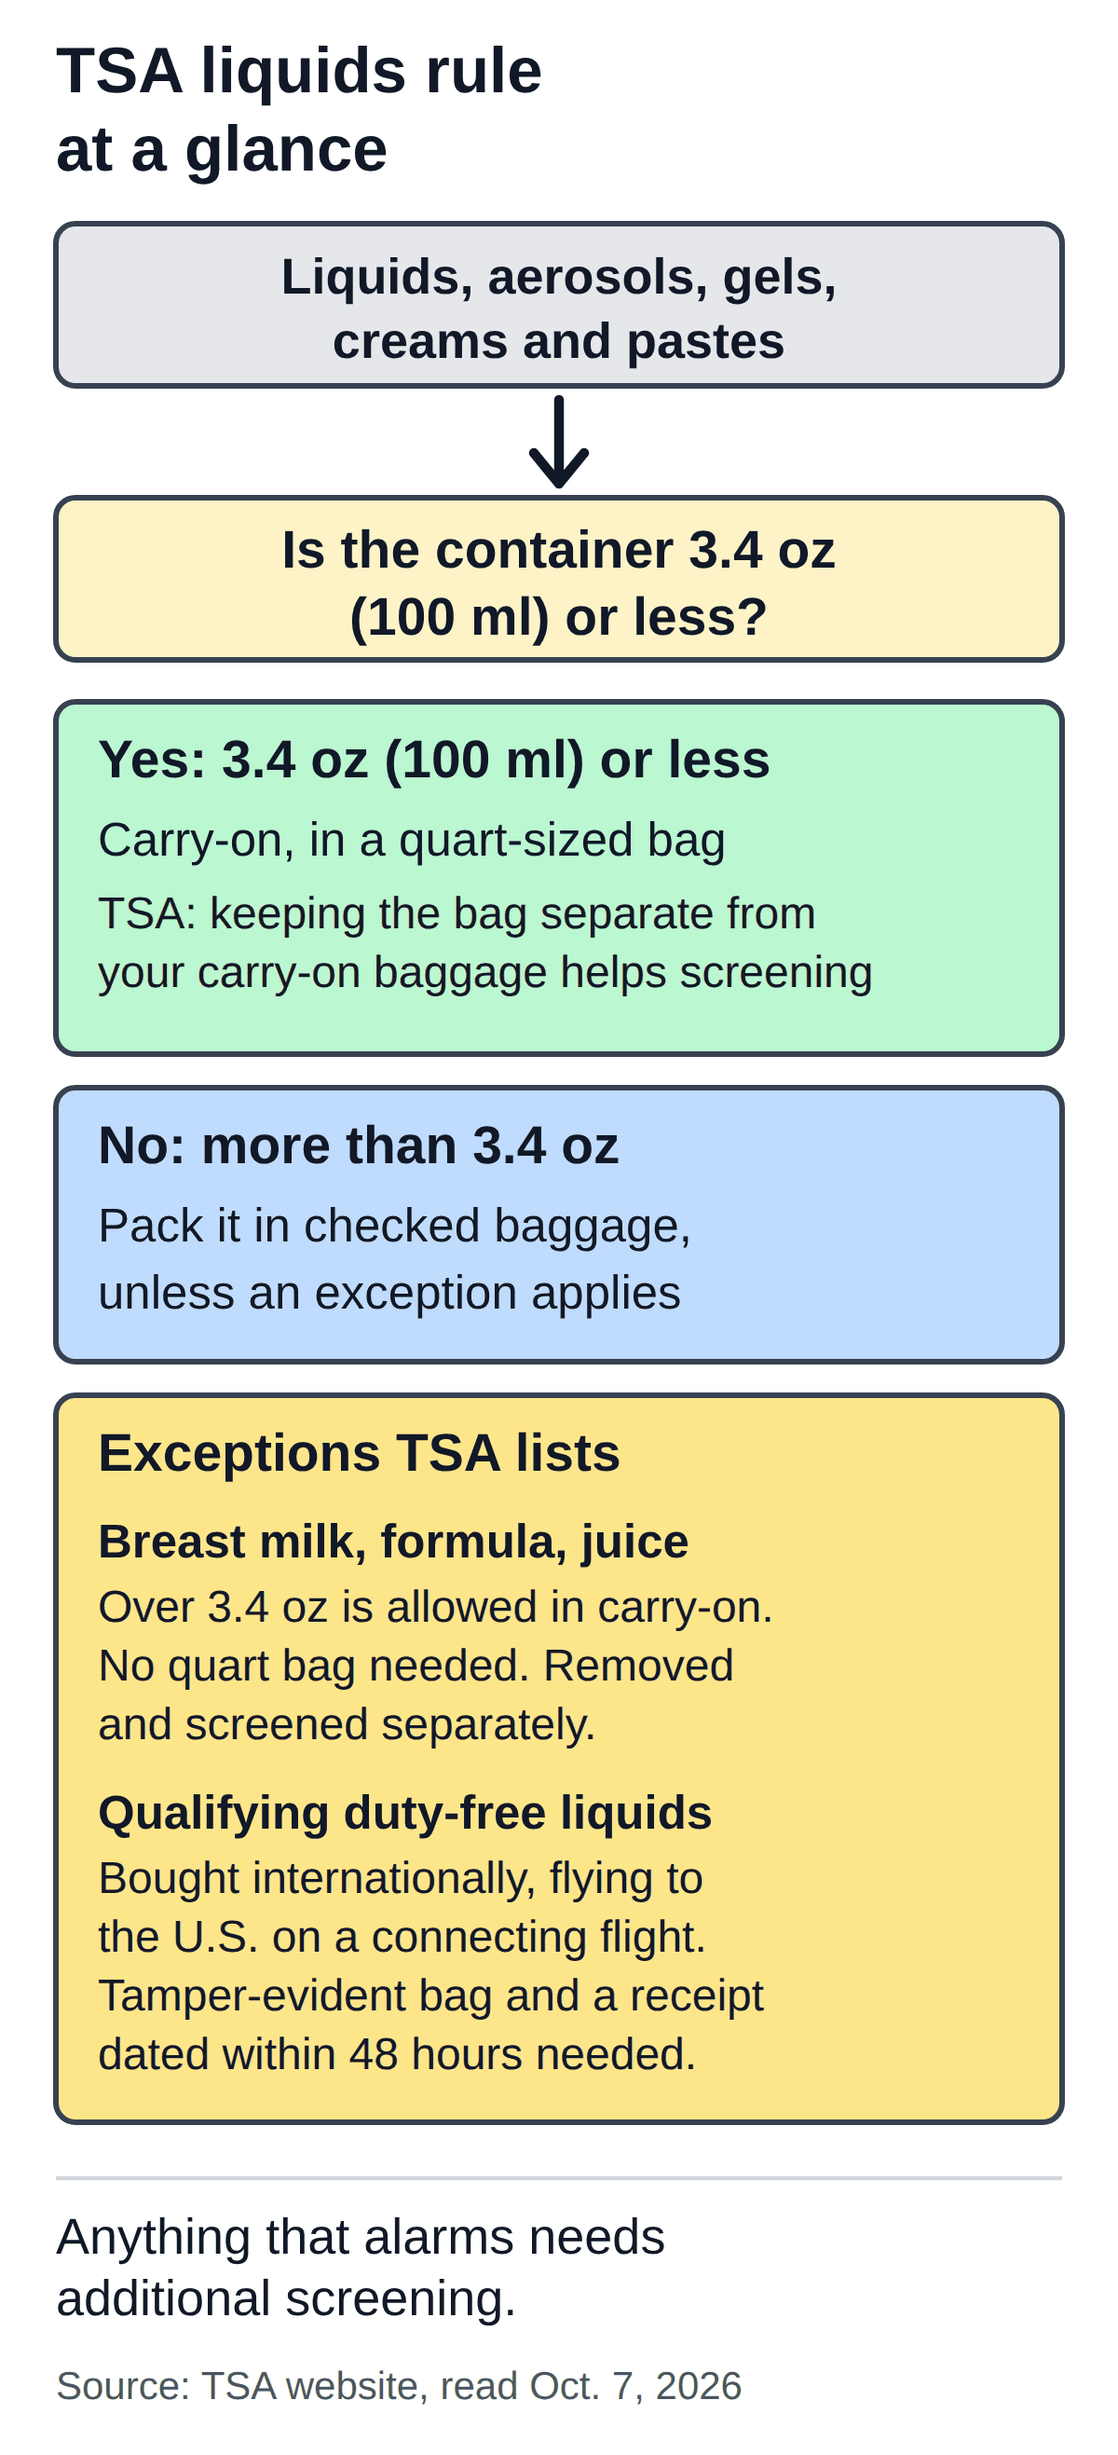
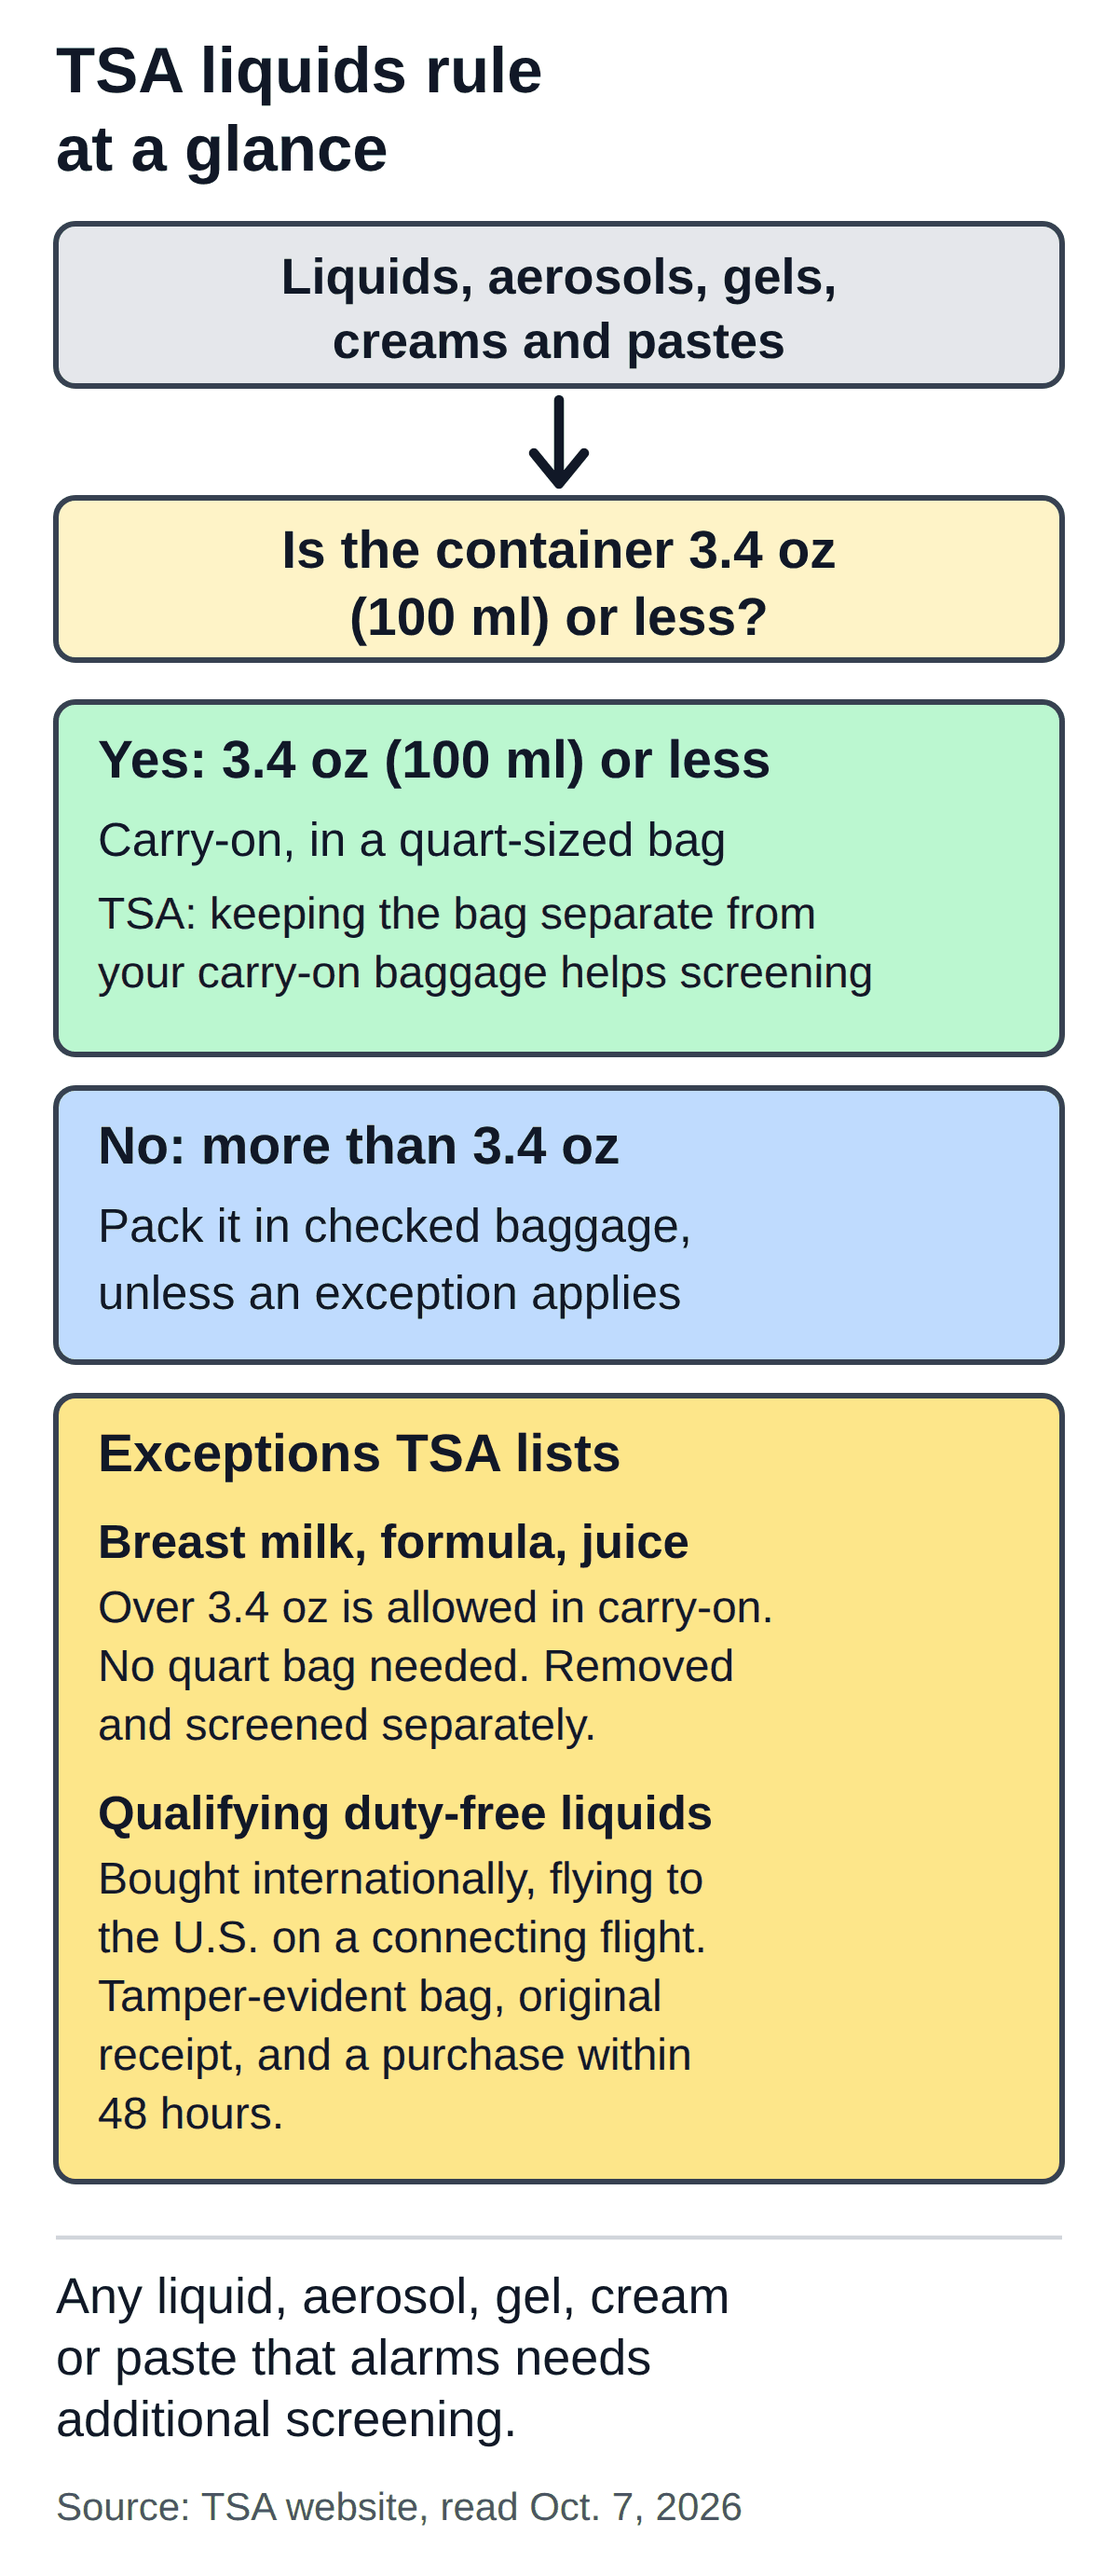
content: fix two diagram wordings for tsa-3-1-1-liquids-rule (Gate 2 review); record Gate 2 result

diff --git a/editorial/qa/tsa-3-1-1-liquids-rule.md b/editorial/qa/tsa-3-1-1-liquids-rule.md
@@ -46,11 +46,11 @@ Own flowchart, no photos, logos or third-party artwork. 800 px wide source, 1200
 - "Yes … Carry-on, in a quart-sized bag" → C1; "TSA: keeping the bag separate from your carry-on baggage helps screening" → C8 (paraphrase, no "must").
 - "No … Pack it in checked baggage, unless an exception applies" → C2 and the exemptions.
 - "Breast milk, formula, juice … allowed in carry-on … no quart bag needed … removed and screened separately" → C13, C14.
-- "Qualifying duty-free liquids … bought internationally, flying to the U.S. on a connecting flight … tamper-evident bag and a receipt dated within 48 hours" → C16–C18. This is a shortened version: the image does not say that the retailer packs the bag or that the bag is transparent. The full conditions are in the article text. "Receipt dated within 48 hours" is a short form of "the purchase was made within 48 hours".
-- "Anything that alarms needs additional screening" → C10.
+- "Qualifying duty-free liquids … bought internationally, flying to the U.S. on a connecting flight … tamper-evident bag and a receipt dated within 48 hours" → C16–C18 (revised after Gate 2, see below: "Tamper-evident bag, original receipt, and a purchase within 48 hours"). This is a shortened version: the image does not say that the retailer packs the bag or that the bag is transparent. The full conditions are in the article text.
+- "Any liquid, aerosol, gel, cream or paste that alarms needs additional screening" → C10 (revised after Gate 2, see below).
 - "Source: TSA website, read Oct. 7, 2026" → C3.
 
-Rendered and viewed; no clipped or overlapping text. The image does not state that the rule is unchanged.
+Rendered and viewed (current version 1200 x 2763 after the Gate 2 revision); no clipped or overlapping text. The image does not state that the rule is unchanged.
 
 Note on the file in the repo: files written to the connected folder get a provenance (C2PA) block added by the file tool. The SVG is larger than the generated file for that reason (11,832 vs 4,058 bytes). The pixels of the PNG were compared with the generated PNG and are identical.
 
@@ -80,12 +80,25 @@ Pass. No claim in the draft lacks a recorded source. The draft can go to English
 
 ## Gate 2 — English + SEO QA
 
-Not done. To be run by ChatGPT on the commit that contains this record.
+Reviewer: ChatGPT, on commit `6db909d` (article, QA record and diagram). Result received from the user on 2026-10-07: **text and SEO pass; diagram needs two wording changes.**
 
-Points for the reviewer to look at:
+Passed as written (per the reviewer): title, meta description, first-sentence answer, heading structure; not stating that the bag must be removed at every checkpoint; the portrait diagram is not cut off and explains the exceptions without photos.
+
+Revisions requested and applied (Claude, 2026-10-07):
+
+| # | Finding | Change made |
+|---|---|---|
+| 1 | The line "Anything that alarms needs additional screening." reads wider than the TSA liquids rule | Diagram bottom line and the matching sentence in the alt text (front matter and body image) changed to "Any liquid, aerosol, gel, cream or paste that alarms needs additional screening." This follows T1: "Any liquid, aerosol, gel, cream or paste that alarms during screening will require additional screening." |
+| 2 | "Tamper-evident bag and a receipt dated within 48 hours needed." did not match the TSA conditions closely | Diagram line changed to "Tamper-evident bag, original receipt, and a purchase within 48 hours." This follows T1: "The original receipt for the liquids is present and the purchase was made within 48 hours." |
+
+The article text did not change. The diagram was redrawn (same layout, three lines at the bottom, five lines in the duty-free card; the PNG is now 1200 x 2763). It was viewed after rendering; no clipped or overlapping text. Pixels of the file in the repository were compared with the rendered file.
+
+Per the reviewer's rule, this revised diagram needs only a wording check by the reviewer, not a full review. After that check, Gate 2 counts as passed.
+
+Status: Gate 2 passed for text and SEO; diagram wording check pending.
+
+Points the reviewer was given:
 
 - Title is 50 characters ("What Is the TSA 3-1-1 Liquids Rule? What's Exempt?"); the focus keyword is `what is the tsa liquids rule`.
 - Meta description is 152 characters (limit 160).
-- The article answers the question in the first sentence and keeps one search intent.
-- Alt text describes the diagram; the diagram image itself should be looked at, not only the text.
 - One short quote only ("facilitates the screening process").

diff --git a/content/drafts/tsa-3-1-1-liquids-rule.md b/content/drafts/tsa-3-1-1-liquids-rule.md
@@ -8,7 +8,7 @@ status: draft
 date: 2026-10-07
 internal_link_candidates: none (the only published article is about daylight saving time and is not related)
 image: assets/optimized/tsa-3-1-1-liquids-rule.png
-image_alt: "Flowchart of the TSA liquids rule: liquids, aerosols, gels, creams and pastes of 3.4 ounces (100 milliliters) or less go in a quart-sized bag in the carry-on; larger containers go in checked baggage unless an exception applies. Exceptions listed: breast milk, formula and juice, and qualifying duty-free liquids. Anything that alarms needs additional screening."
+image_alt: "Flowchart of the TSA liquids rule: liquids, aerosols, gels, creams and pastes of 3.4 ounces (100 milliliters) or less go in a quart-sized bag in the carry-on; larger containers go in checked baggage unless an exception applies. Exceptions listed: breast milk, formula and juice, and qualifying duty-free liquids. Any liquid, aerosol, gel, cream or paste that alarms needs additional screening."
 ---
 
 # What Is the TSA 3-1-1 Liquids Rule? What's Exempt?
@@ -17,7 +17,7 @@ image_alt: "Flowchart of the TSA liquids rule: liquids, aerosols, gels, creams a
 
 This article explains what TSA's own pages say. The wording below is as of October 7, 2026, and comes from the two TSA pages listed at the end. Neither page shows an update date or a notice of change, so they do not say when the wording last changed. This article does not either.
 
-![Flowchart of the TSA liquids rule: liquids, aerosols, gels, creams and pastes of 3.4 ounces (100 milliliters) or less go in a quart-sized bag in the carry-on; larger containers go in checked baggage unless an exception applies. Exceptions listed: breast milk, formula and juice, and qualifying duty-free liquids. Anything that alarms needs additional screening.](assets/optimized/tsa-3-1-1-liquids-rule.png)
+![Flowchart of the TSA liquids rule: liquids, aerosols, gels, creams and pastes of 3.4 ounces (100 milliliters) or less go in a quart-sized bag in the carry-on; larger containers go in checked baggage unless an exception applies. Exceptions listed: breast milk, formula and juice, and qualifying duty-free liquids. Any liquid, aerosol, gel, cream or paste that alarms needs additional screening.](assets/optimized/tsa-3-1-1-liquids-rule.png)
 
 ## What the rule says
 
